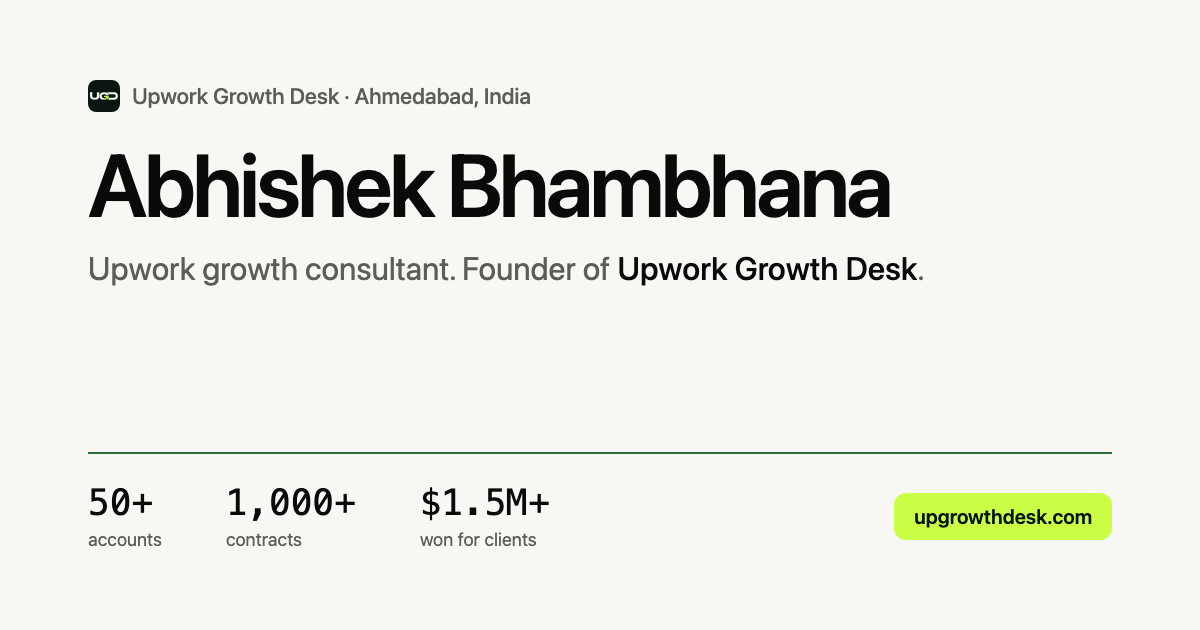
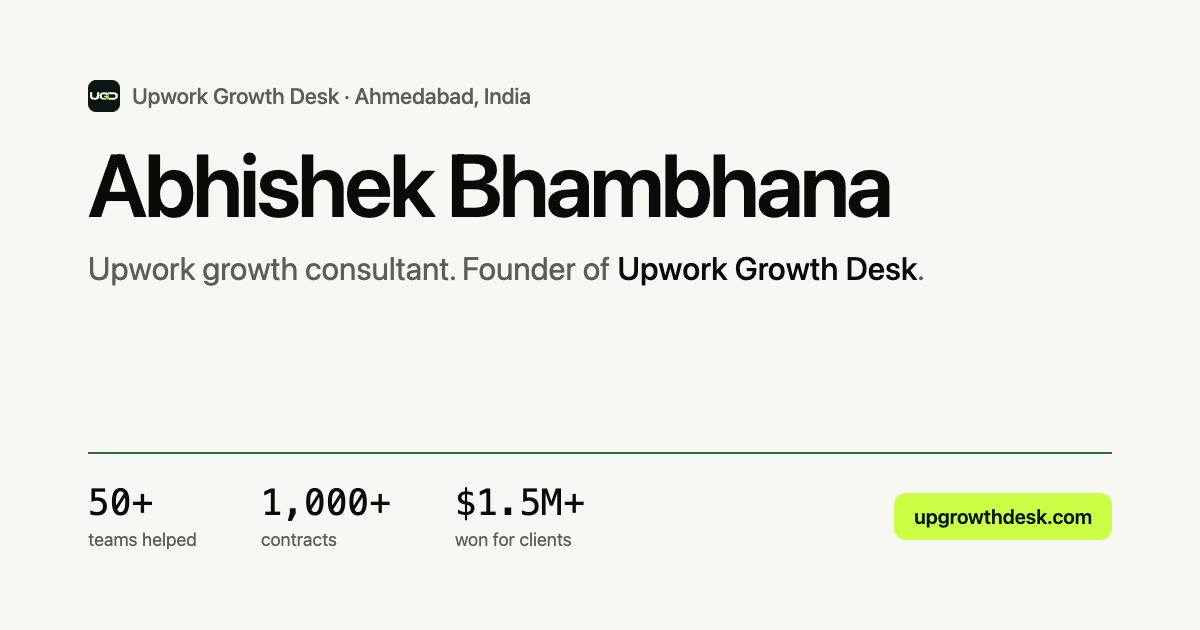
Describe the work as consulting rather than running accounts

Changed region(s): [[0.0617, 0.754, 0.4933, 0.8746]]

diff --git a/index.html b/index.html
@@ -4,7 +4,7 @@
 <meta charset="utf-8">
 <meta name="viewport" content="width=device-width, initial-scale=1">
 <title>Abhishek Bhambhana | Upwork Growth Consultant, Founder of Upwork Growth Desk</title>
-<meta name="description" content="Abhishek Bhambhana runs Upwork Growth Desk in Ahmedabad, India. Upwork account management since 2019: 50+ accounts, 1,000+ contracts, $1.5M+ won for clients. Also go to market and tech sales for startups like UnitPay and MonkeyBox.">
+<meta name="description" content="Abhishek Bhambhana runs Upwork Growth Desk in Ahmedabad, India. Upwork growth consulting since 2019: 50+ freelancers and agencies, 1,000+ contracts, $1.5M+ won for clients. Also go to market and tech sales for startups like UnitPay and MonkeyBox.">
 <meta name="author" content="Abhishek Bhambhana">
 <meta name="google-site-verification" content="uEDgYyP_pXzx49Tevxb9EYuWGhSJGLBcoEHp0J4DmW0">
 <meta name="robots" content="index, follow, max-image-preview:large">
@@ -13,7 +13,7 @@
 <link rel="me" href="https://linkedin.com/in/abhishek-upwork-growth">
 <meta property="og:type" content="profile">
 <meta property="og:title" content="Abhishek Bhambhana, Upwork growth consultant">
-<meta property="og:description" content="Founder of Upwork Growth Desk. 50+ Upwork accounts, 1,000+ contracts, $1.5M+ won for clients since 2019.">
+<meta property="og:description" content="Founder of Upwork Growth Desk. 50+ freelancers and agencies helped, 1,000+ contracts, $1.5M+ won for clients since 2019.">
 <meta property="og:url" content="https://abhishekbhambhana.github.io/">
 <meta property="og:image" content="https://abhishekbhambhana.github.io/assets/og.png">
 <meta property="og:image:width" content="1200">
@@ -39,13 +39,13 @@
       "givenName": "Abhishek",
       "familyName": "Bhambhana",
       "jobTitle": "Upwork Growth Consultant and Founder of Upwork Growth Desk",
-      "description": "Upwork growth consultant and founder of Upwork Growth Desk, based in Ahmedabad, India. Has run Upwork accounts since 2019: 50+ accounts, 1,000+ contracts, $1.5M+ won for clients. Previously in go to market and tech sales, including fundraising work at MonkeyBox and growth and investor work at UnitPay.",
+      "description": "Upwork growth consultant and founder of Upwork Growth Desk, based in Ahmedabad, India. Has worked with freelancers and agencies on Upwork since 2019: 50+ teams, 1,000+ contracts, $1.5M+ won for clients. Previously in go to market and tech sales, including fundraising work at MonkeyBox and growth and investor work at UnitPay.",
       "url": "https://abhishekbhambhana.github.io/",
       "address": {"@type": "PostalAddress", "addressLocality": "Ahmedabad", "addressRegion": "Gujarat", "addressCountry": "IN"},
       "worksFor": {"@id": "https://upgrowthdesk.com/#org"},
       "founder": {"@id": "https://upgrowthdesk.com/#org"},
       "knowsLanguage": ["English", "Hindi", "Gujarati"],
-      "knowsAbout": ["Upwork account management", "Upwork profile optimization", "Upwork SEO", "Upwork proposal writing", "Job Success Score", "Go to market strategy", "Outbound sales", "Startup fundraising", "Investor pitch decks", "Tech sales", "SaaS business development", "Sales automation"],
+      "knowsAbout": ["Upwork growth consulting", "Upwork profile optimization", "Upwork SEO", "Upwork proposal writing", "Job Success Score", "Go to market strategy", "Outbound sales", "Startup fundraising", "Investor pitch decks", "Tech sales", "SaaS business development", "Sales automation"],
       "sameAs": [
         "https://github.com/abhishekbhambhana",
         "https://linkedin.com/in/abhishek-upwork-growth",
@@ -59,7 +59,7 @@
       "name": "Upwork Growth Desk",
       "alternateName": ["UpGrowthDesk", "UGD"],
       "url": "https://upgrowthdesk.com",
-      "description": "Upwork account management for freelancers and agencies: job selection, proposals, interviews and Job Success protection, for a flat monthly fee with no commission.",
+      "description": "Upwork growth consulting for freelancers and agencies: job selection, proposal strategy, interview prep and Job Success protection, for a flat monthly fee with no commission.",
       "founder": {"@id": "https://abhishekbhambhana.github.io/#person"},
       "areaServed": "Worldwide"
     },
@@ -67,14 +67,14 @@
       "@type": "FAQPage",
       "mainEntity": [
         {"@type": "Question", "name": "Who is Abhishek Bhambhana?",
-         "acceptedAnswer": {"@type": "Answer", "text": "Abhishek Bhambhana is an Upwork growth consultant based in Ahmedabad, India, and the founder of Upwork Growth Desk. He has worked on Upwork since 2019, managed 50+ accounts and closed 1,000+ contracts worth $1.5M+ for clients. He has also worked in go to market and tech sales for startups including UnitPay and MonkeyBox."}},
+         "acceptedAnswer": {"@type": "Answer", "text": "Abhishek Bhambhana is an Upwork growth consultant based in Ahmedabad, India, and the founder of Upwork Growth Desk. He has worked on Upwork since 2019, worked with 50+ freelancers and agencies and helped win 1,000+ contracts worth $1.5M+ for clients. He has also worked in go to market and tech sales for startups including UnitPay and MonkeyBox."}},
         {"@type": "Question", "name": "What is Upwork Growth Desk (UpGrowthDesk)?",
-         "acceptedAnswer": {"@type": "Answer", "text": "Upwork Growth Desk, at upgrowthdesk.com, runs Upwork accounts for freelancers and agencies: choosing jobs, writing proposals, handling interviews and protecting Job Success. It charges a flat monthly fee with no commission. If an account has no traction by month three, months four and five are free."}},
+         "acceptedAnswer": {"@type": "Answer", "text": "Upwork Growth Desk, at upgrowthdesk.com, helps freelancers and agencies grow on Upwork: picking jobs worth a bid, proposal strategy, interview prep and protecting Job Success. It charges a flat monthly fee with no commission. If there's no traction by month three, months four and five are free."}},
         {"@type": "Question", "name": "What did Abhishek Bhambhana do at MonkeyBox?",
          "acceptedAnswer": {"@type": "Answer", "text": "From October 2021 to March 2024 he worked in business development, product and growth at MonkeyBox, a Bengaluru startup backed by Blume Ventures. He built investor and VC relationships, worked on pitches and negotiation as the company worked toward $10M+ in funding, and ran market research."}},
         {"@type": "Question", "name": "What did Abhishek Bhambhana do at UnitPay?",
          "acceptedAnswer": {"@type": "Answer", "text": "He reported to UnitPay founder Vijay Gorfad and worked on growth and sales: choosing channels, shortening the sales cycle, and preparing investor pitches and decks. Vijay Gorfad wrote that the account grew past $100K in revenue under his guidance."}},
-        {"@type": "Question", "name": "Which Upwork niches does Abhishek Bhambhana manage?",
+        {"@type": "Question", "name": "Which Upwork niches does Abhishek Bhambhana work with?",
          "acceptedAnswer": {"@type": "Answer", "text": "MERN, AI and Gen AI, DevOps and AWS, Laravel, WordPress, Shopify, Salesforce, Java and Spring, Flutter, React and Next.js, SaaS, brand and design, Meta Ads, iOS and Odoo."}},
         {"@type": "Question", "name": "How do I work with Abhishek Bhambhana?",
          "acceptedAnswer": {"@type": "Answer", "text": "Book a 30 minute call at cal.com/abhishek-bhambhana-40tn49/30-min-of-upwork-growth or message him on LinkedIn at linkedin.com/in/abhishek-upwork-growth."}}
@@ -402,7 +402,7 @@ footer .wrap{display:flex;justify-content:space-between;gap:var(--s4);flex-wrap:
       <div>
         <p class="eyebrow caption-1">Abhishek Bhambhana &middot; Ahmedabad, India &middot; <span class="clock mono" aria-label="Local time in Ahmedabad"></span></p>
         <h1 class="heading-1"><span class="ln"><span class="in">I help freelancers</span></span><span class="ln"><span class="in">and agencies win steady</span></span><span class="ln"><span class="in">work on Upwork.</span></span></h1>
-        <p class="sub title-2">I run <strong>Upwork Growth Desk</strong>. Since 2019 I've managed more than 50 Upwork accounts and closed over 1,000 contracts, worth <strong>$1.5M+</strong> to the people I work for. Alongside that I've done go to market and tech sales for startups.</p>
+        <p class="sub title-2">I run <strong>Upwork Growth Desk</strong>. Since 2019 I've worked with more than 50 freelancers and agencies on Upwork and helped them win over 1,000 contracts, worth <strong>$1.5M+</strong> to the people I work for. Alongside that I've done go to market and tech sales for startups.</p>
         <div class="cta">
           <a class="btn lg button-md" href="https://cal.com/abhishek-bhambhana-40tn49/30-min-of-upwork-growth">Book a 30 minute call <span class="arr" aria-hidden="true">&rarr;</span></a>
           <p class="proof body-6">"We significantly grew our account, exceeding $100K in revenue." <br>Vijay Gorfad, founder of UnitPay</p>
@@ -428,13 +428,13 @@ footer .wrap{display:flex;justify-content:space-between;gap:var(--s4);flex-wrap:
 <div class="wrap reveal">
   <div class="stats" role="list">
     <div class="stat" role="listitem"><div class="n">2019</div><div class="l body-6">on Upwork since</div></div>
-    <div class="stat" role="listitem"><div class="n" data-count="50" data-suffix="+">50+</div><div class="l body-6">accounts managed</div></div>
+    <div class="stat" role="listitem"><div class="n" data-count="50" data-suffix="+">50+</div><div class="l body-6">freelancers and agencies</div></div>
     <div class="stat" role="listitem"><div class="n" data-count="1000" data-suffix="+">1,000+</div><div class="l body-6">contracts closed</div></div>
     <div class="stat" role="listitem"><div class="n" data-count="1.5" data-prefix="$" data-suffix="M+" data-dec="1">$1.5M+</div><div class="l body-6">won for clients</div></div>
   </div>
 </div>
 
-<div class="marquee" aria-label="Upwork niches managed: MERN, AI and Gen AI, DevOps and AWS, Laravel, WordPress, Shopify, Salesforce, Java and Spring, Flutter, React and Next.js, SaaS, Brand and design, Meta Ads, iOS, Odoo">
+<div class="marquee" aria-label="Upwork niches I work with: MERN, AI and Gen AI, DevOps and AWS, Laravel, WordPress, Shopify, Salesforce, Java and Spring, Flutter, React and Next.js, SaaS, Brand and design, Meta Ads, iOS, Odoo">
   <div class="track" aria-hidden="true"><div class="set"><span>MERN</span><span>AI and Gen AI</span><span>DevOps and AWS</span><span>Laravel</span><span>WordPress</span><span>Shopify</span><span>Salesforce</span><span>Java and Spring</span><span>Flutter</span><span>React and Next.js</span><span>SaaS</span><span>Brand and design</span><span>Meta Ads</span><span>iOS</span><span>Odoo</span></div><div class="set"><span>MERN</span><span>AI and Gen AI</span><span>DevOps and AWS</span><span>Laravel</span><span>WordPress</span><span>Shopify</span><span>Salesforce</span><span>Java and Spring</span><span>Flutter</span><span>React and Next.js</span><span>SaaS</span><span>Brand and design</span><span>Meta Ads</span><span>iOS</span><span>Odoo</span></div></div>
 </div>
 
@@ -449,17 +449,17 @@ footer .wrap{display:flex;justify-content:space-between;gap:var(--s4);flex-wrap:
     <div class="label caption-1"><span class="num">01</span><span class="what">Upwork growth</span></div>
     <div class="prose">
       <h2 class="heading-4" id="h-upwork">Upwork Growth Desk</h2>
-      <p class="body-3">Most of my week goes here. <a class="link" href="https://upgrowthdesk.com">Upwork Growth Desk</a> runs Upwork accounts for developers, agencies and designers who would rather do the work than chase it.</p>
-      <p class="body-3">We choose which jobs to bid on, write each proposal for the client who will read it, take the interviews and follow ups, and keep a close eye on Job Success so one bad contract doesn't undo a year of good ones. Every account gets a pipeline report each week.</p>
-      <p class="body-3">It's a flat monthly fee with <strong>no commission</strong> on what you win. If an account has no real traction by month three, months four and five are free.</p>
-      <p class="body-3">Some teams would rather run it themselves. For them I do profile audits, Upwork SEO, title and overview rewrites, portfolio plans, and a proposal framework their bidders can follow.</p>
-      <p class="body-6" style="margin-top:24px">Accounts I manage today: MERN, AI and Gen AI, DevOps and AWS, Laravel, WordPress, Shopify, Salesforce, Java and Spring, Flutter, React and Next.js, SaaS, brand and design, Meta Ads, iOS, Odoo.</p>
+      <p class="body-3">Most of my week goes here. <a class="link" href="https://upgrowthdesk.com">Upwork Growth Desk</a> helps developers, agencies and designers win more of the right work on Upwork, so they can spend their time doing it.</p>
+      <p class="body-3">We help decide which jobs are worth a bid, shape each proposal around the client who will read it, prepare you for interviews and follow ups, and keep a close eye on Job Success so one bad contract doesn't undo a year of good ones. Every client gets a pipeline report each week.</p>
+      <p class="body-3">It's a flat monthly fee with <strong>no commission</strong> on what you win. If there's no real traction by month three, months four and five are free.</p>
+      <p class="body-3">Some teams would rather run it themselves. For them I do profile audits, Upwork SEO, title and overview rewrites, portfolio plans, and a proposal framework their team can follow.</p>
+      <p class="body-6" style="margin-top:24px">Niches I work with today: MERN, AI and Gen AI, DevOps and AWS, Laravel, WordPress, Shopify, Salesforce, Java and Spring, Flutter, React and Next.js, SaaS, brand and design, Meta Ads, iOS, Odoo.</p>
     </div>
   </div>
   <div class="wrap">
-    <div class="process" aria-label="How an account wins at Upwork Growth Desk">
-      <p class="ph caption-1">How an account wins</p>
-      <div class="stepwrap"><span class="rail" aria-hidden="true"><span class="fill"></span></span><ol class="steps"><li style="--i:0"><span class="dot"></span><span class="sn mono caption-4">01</span><span class="st title-3">Score the job</span><span class="sd body-6">Client history, budget and fit, checked before a Connect is spent.</span></li><li style="--i:1"><span class="dot"></span><span class="sn mono caption-4">02</span><span class="st title-3">Write to one client</span><span class="sd body-6">The first two lines answer their post. Nothing copied from the last one.</span></li><li style="--i:2"><span class="dot"></span><span class="sn mono caption-4">03</span><span class="st title-3">Interview</span><span class="sd body-6">Calls and follow ups, handled for you.</span></li><li style="--i:3"><span class="dot"></span><span class="sn mono caption-4">04</span><span class="st title-3">Close</span><span class="sd body-6">Offer, scope and milestones agreed before anyone starts.</span></li><li style="--i:4"><span class="dot"></span><span class="sn mono caption-4">05</span><span class="st title-3">Protect Job Success</span><span class="sd body-6">Every contract watched, so one bad review doesn't cost a year.</span></li></ol></div>
+    <div class="process" aria-label="How a proposal wins at Upwork Growth Desk">
+      <p class="ph caption-1">How a proposal wins</p>
+      <div class="stepwrap"><span class="rail" aria-hidden="true"><span class="fill"></span></span><ol class="steps"><li style="--i:0"><span class="dot"></span><span class="sn mono caption-4">01</span><span class="st title-3">Score the job</span><span class="sd body-6">Client history, budget and fit, checked before a Connect is spent.</span></li><li style="--i:1"><span class="dot"></span><span class="sn mono caption-4">02</span><span class="st title-3">Write to one client</span><span class="sd body-6">The first two lines answer their post. Nothing copied from the last one.</span></li><li style="--i:2"><span class="dot"></span><span class="sn mono caption-4">03</span><span class="st title-3">Interview</span><span class="sd body-6">Prep for calls and follow ups.</span></li><li style="--i:3"><span class="dot"></span><span class="sn mono caption-4">04</span><span class="st title-3">Close</span><span class="sd body-6">Offer, scope and milestones agreed before anyone starts.</span></li><li style="--i:4"><span class="dot"></span><span class="sn mono caption-4">05</span><span class="st title-3">Protect Job Success</span><span class="sd body-6">Every contract watched, so one bad review doesn't cost a year.</span></li></ol></div>
     </div>
   </div>
 </section>
@@ -566,11 +566,11 @@ footer .wrap{display:flex;justify-content:space-between;gap:var(--s4);flex-wrap:
     <div class="prose">
       <h2 class="heading-4" id="h-faq">Questions people ask</h2>
       <div class="faq body-3">
-        <details open><summary class="title-3">Who is Abhishek Bhambhana?</summary><p>Abhishek Bhambhana is an Upwork growth consultant based in Ahmedabad, India, and the founder of Upwork Growth Desk. He has worked on Upwork since 2019, managed 50+ accounts and closed 1,000+ contracts worth $1.5M+ for clients. He has also worked in go to market and tech sales for startups including UnitPay and MonkeyBox.</p></details>
-        <details><summary class="title-3">What is Upwork Growth Desk?</summary><p>Upwork Growth Desk (UpGrowthDesk, at upgrowthdesk.com) runs Upwork accounts for freelancers and agencies: choosing jobs, writing proposals, handling interviews and protecting Job Success. It charges a flat monthly fee with no commission. If an account has no traction by month three, months four and five are free.</p></details>
+        <details open><summary class="title-3">Who is Abhishek Bhambhana?</summary><p>Abhishek Bhambhana is an Upwork growth consultant based in Ahmedabad, India, and the founder of Upwork Growth Desk. He has worked on Upwork since 2019, worked with 50+ freelancers and agencies and helped win 1,000+ contracts worth $1.5M+ for clients. He has also worked in go to market and tech sales for startups including UnitPay and MonkeyBox.</p></details>
+        <details><summary class="title-3">What is Upwork Growth Desk?</summary><p>Upwork Growth Desk (UpGrowthDesk, at upgrowthdesk.com) helps freelancers and agencies grow on Upwork: picking jobs worth a bid, proposal strategy, interview prep and protecting Job Success. It charges a flat monthly fee with no commission. If there's no traction by month three, months four and five are free.</p></details>
         <details><summary class="title-3">What did he do at MonkeyBox?</summary><p>From October 2021 to March 2024 he worked in business development, product and growth at MonkeyBox, a Bengaluru startup backed by Blume Ventures. He built investor and VC relationships, worked on pitches and negotiation as the company worked toward $10M+ in funding, and ran market research.</p></details>
         <details><summary class="title-3">What did he do at UnitPay?</summary><p>He reported to UnitPay founder Vijay Gorfad and worked on growth and sales: choosing channels, shortening the sales cycle, and preparing investor pitches and decks. Vijay wrote that the account grew past $100K in revenue under his guidance.</p></details>
-        <details><summary class="title-3">Which Upwork niches does he manage?</summary><p>MERN, AI and Gen AI, DevOps and AWS, Laravel, WordPress, Shopify, Salesforce, Java and Spring, Flutter, React and Next.js, SaaS, brand and design, Meta Ads, iOS and Odoo.</p></details>
+        <details><summary class="title-3">Which Upwork niches does he work with?</summary><p>MERN, AI and Gen AI, DevOps and AWS, Laravel, WordPress, Shopify, Salesforce, Java and Spring, Flutter, React and Next.js, SaaS, brand and design, Meta Ads, iOS and Odoo.</p></details>
         <details><summary class="title-3">How do I work with him?</summary><p>Book a <a class="link" href="https://cal.com/abhishek-bhambhana-40tn49/30-min-of-upwork-growth">30 minute call</a> or send a message on <a class="link" href="https://linkedin.com/in/abhishek-upwork-growth">LinkedIn</a>.</p></details>
       </div>
     </div>
